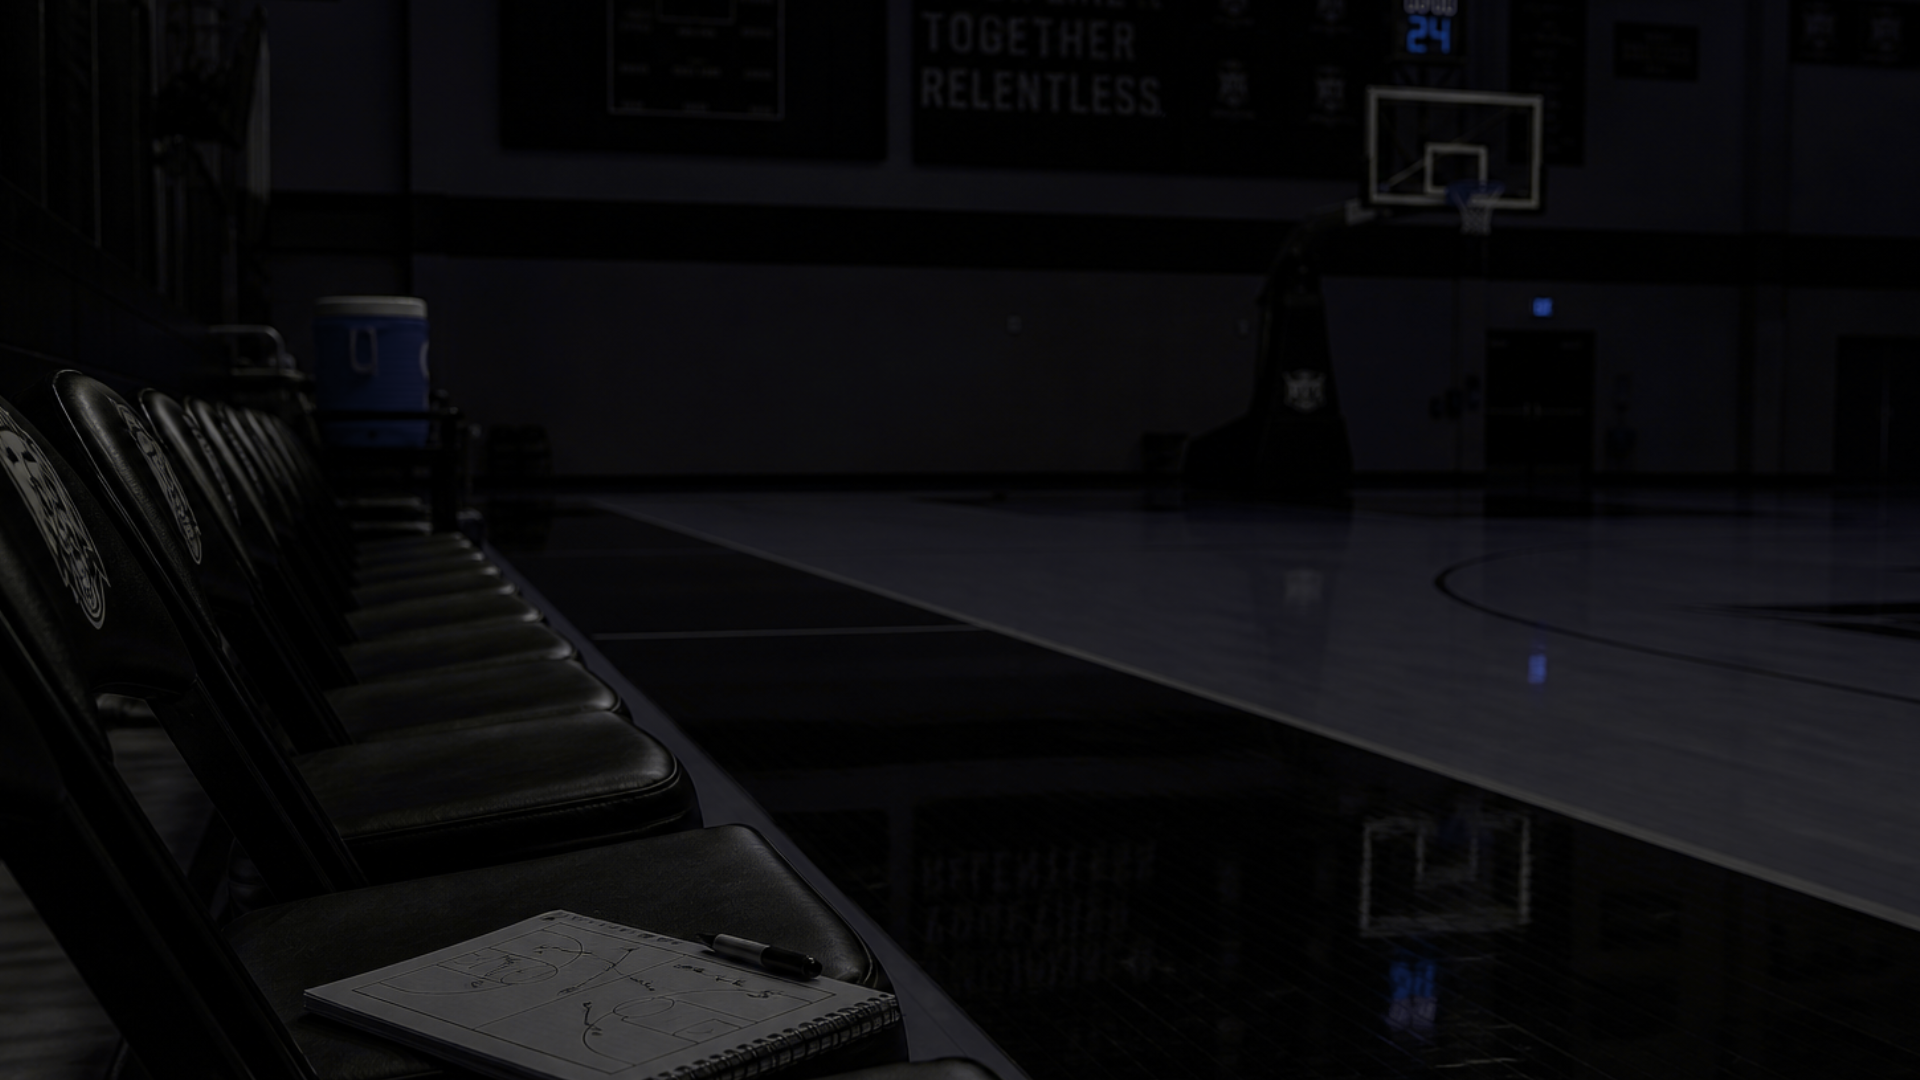
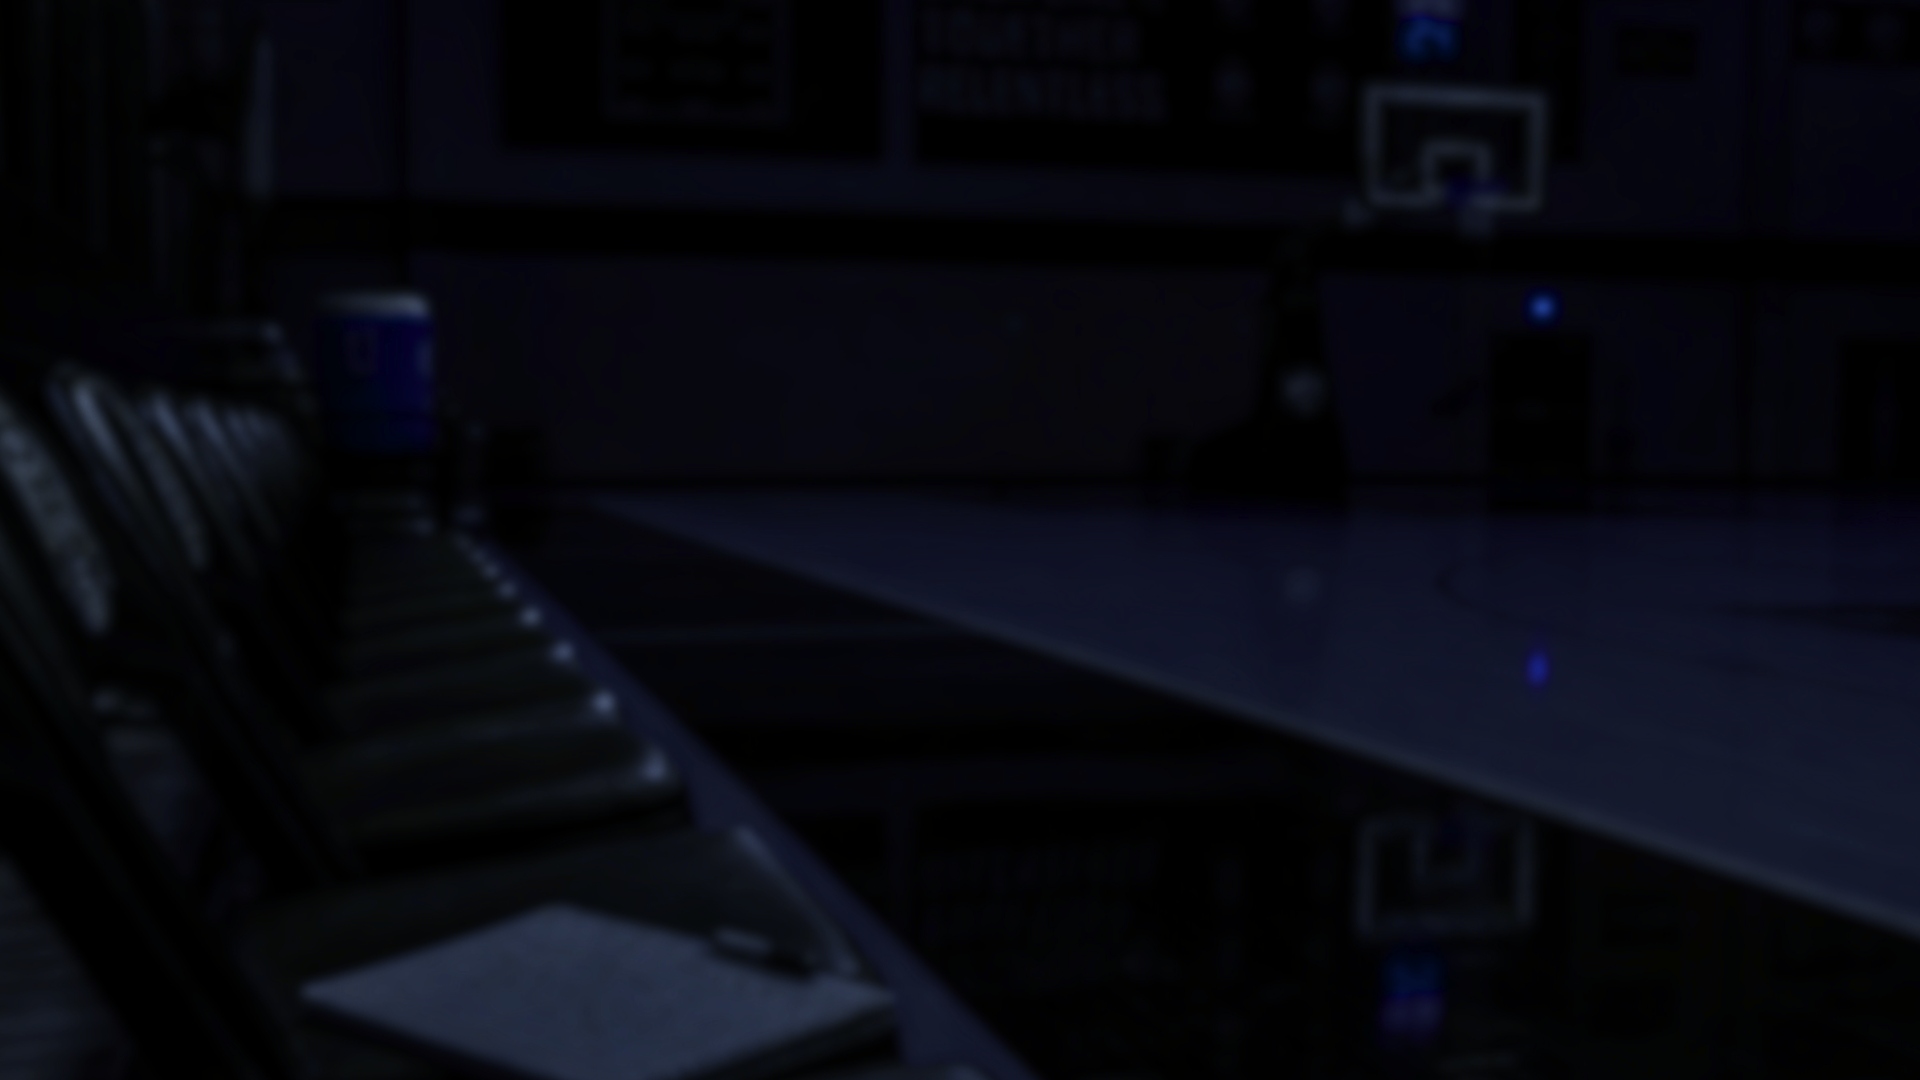
feat: tabela com scroll

diff --git a/app/views/admin/admin-users.html b/app/views/admin/admin-users.html
@@ -19,7 +19,7 @@
             </div>
             <div class = "interacoes">
                 <div class = "input-de-busca">
-                    <input class = "elemento-input" type = "text" placeholder="Pequisar por usuário">
+                    <input class = "elemento-input" type = "text" placeholder="Pesquisar">
                     <div class = "botao-lupa">
                         <img src = "/public/assets/lupa.png">  
                     </div>
@@ -49,55 +49,7 @@
         </p>
 
         <div class="acoes">
-            <img class = "icone-acao retic" src = "/public/assets/reticencias.png">
-            <img class="icone-acao" src="/public/assets/eye.png">
-            <img class="icone-acao" src="/public/assets/pencil.png">
-            <img class="icone-acao" src="/public/assets/trash.png">
-        </div>
-    </div>
-     <div class="linha-tabela">
-        <p class="info-tabela">1</p>
-
-        <p class="info-tabela username">loremipsumdasilva</p>
-
-        <p class="info-tabela email">
-            [email redacted]
-        </p>
-
-        <div class="acoes">
-            <img class = "icone-acao retic" src = "/public/assets/reticencias.png">
-            <img class="icone-acao" src="/public/assets/eye.png">
-            <img class="icone-acao" src="/public/assets/pencil.png">
-            <img class="icone-acao" src="/public/assets/trash.png">
-        </div>
-    </div>
-      <div class="linha-tabela">
-        <p class="info-tabela">1</p>
-
-        <p class="info-tabela username">loremipsumdasilva</p>
-
-        <p class="info-tabela email">
-            [email redacted]
-        </p>
-
-        <div class="acoes">
-            <img class = "icone-acao retic" src = "/public/assets/reticencias.png">
-            <img class="icone-acao" src="/public/assets/eye.png">
-            <img class="icone-acao" src="/public/assets/pencil.png">
-            <img class="icone-acao" src="/public/assets/trash.png">
-        </div>
-    </div>
-     <div class="linha-tabela">
-        <p class="info-tabela">1</p>
-
-        <p class="info-tabela username">loremipsumdasilva</p>
-
-        <p class="info-tabela email">
-            [email redacted]
-        </p>
-
-        <div class="acoes">
-            <img class = "icone-acao retic" src = "/public/assets/reticencias.png">
+           
             <img class="icone-acao" src="/public/assets/eye.png">
             <img class="icone-acao" src="/public/assets/pencil.png">
             <img class="icone-acao" src="/public/assets/trash.png">
@@ -113,7 +65,55 @@
         </p>
 
         <div class="acoes">
-            <img class = "icone-acao retic" src = "/public/assets/reticencias.png">
+           
+            <img class="icone-acao" src="/public/assets/eye.png">
+            <img class="icone-acao" src="/public/assets/pencil.png">
+            <img class="icone-acao" src="/public/assets/trash.png">
+        </div>
+    </div>
+    <div class="linha-tabela">
+        <p class="info-tabela">1</p>
+
+        <p class="info-tabela username">loremipsumdasilva</p>
+
+        <p class="info-tabela email">
+            [email redacted]
+        </p>
+
+        <div class="acoes">
+           
+            <img class="icone-acao" src="/public/assets/eye.png">
+            <img class="icone-acao" src="/public/assets/pencil.png">
+            <img class="icone-acao" src="/public/assets/trash.png">
+        </div>
+    </div>
+         <div class="linha-tabela">
+        <p class="info-tabela">1</p>
+
+        <p class="info-tabela username">loremipsumdasilva</p>
+
+        <p class="info-tabela email">
+            [email redacted]
+        </p>
+
+        <div class="acoes">
+           
+            <img class="icone-acao" src="/public/assets/eye.png">
+            <img class="icone-acao" src="/public/assets/pencil.png">
+            <img class="icone-acao" src="/public/assets/trash.png">
+        </div>
+    </div>
+           <div class="linha-tabela">
+        <p class="info-tabela">1</p>
+
+        <p class="info-tabela username">loremipsumdasilva</p>
+
+        <p class="info-tabela email">
+            [email redacted]
+        </p>
+
+        <div class="acoes">
+           
             <img class="icone-acao" src="/public/assets/eye.png">
             <img class="icone-acao" src="/public/assets/pencil.png">
             <img class="icone-acao" src="/public/assets/trash.png">

diff --git a/public/css/admin-users.css b/public/css/admin-users.css
@@ -11,7 +11,7 @@ body {
     display: flex;
     align-items: center;
     justify-content: center;
-    height: 100vh;
+    min-height: 100vh;
 }
 
 .painel {
@@ -93,9 +93,7 @@ h1,h2,h3,h4,p {
     max-width: 100%;
 }
 
-.retic {
-    display: none;
-}
+
 
 .header-tabela,
 .linha-tabela {
@@ -171,6 +169,7 @@ h1,h2,h3,h4,p {
     display: flex;
     justify-content: center;
     align-items: center;
+    padding-top: 20px;
 
 }
 
@@ -195,21 +194,23 @@ h1,h2,h3,h4,p {
 }
 
 @media (max-width: 840px) {
-.email {
-    display: none;
-}
 
-  .header-tabela,
+.header-tabela,
   .linha-tabela {
+    min-width: 700px; 
+    
     grid-template-columns:
       0.5fr
       1fr
+      2fr
       1fr;
   }
+    .tabela {
+    overflow-x: auto;
+    width: 100%;
+  }
 
-.retic {
-    display: flex;
-}
+
 
 .painel {
     width: 80%;
@@ -227,34 +228,39 @@ h1,h2,h3,h4,p {
 @media (max-width: 600px) {
     .painel {
     width: 98%;
-}
- .componentes {
-        width: 95%;
-    }
-    .titulo-texto {
     
-    font-size: 20px;
-
-}
-.icone-acao {
-        width: 18px;
-        height: 18px;
     }
-.texto-criar-usuario {
-    display: none;
-}
 
-.input-de-busca {
-    background-color: white;
 
-    width: 60%;
-    justify-content: space-between;
 
-}
+    .componentes {
+            width: 95%;
+            
+        }
+    .painel {
+            height: 90vh;
+            justify-content: center;
+        }
 
-.input-de-busca input {
-    width: 50%;
-}
+    .icone-acao {
+            width: 18px;
+            height: 18px;
+        }
+    .texto-criar-usuario {
+        display: none;
+    }
+
+    .input-de-busca {
+        background-color: white;
+
+        width: 60%;
+        justify-content: space-between;
+
+    }
+
+    .input-de-busca input {
+        width: 50%;
+    }
 
 }
 